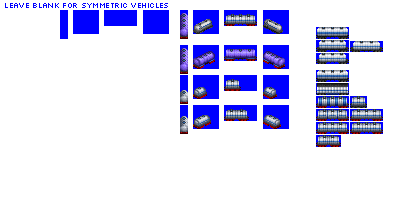
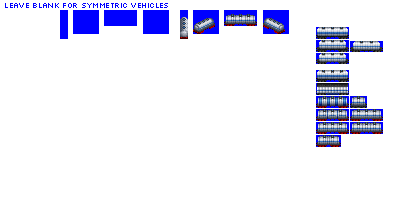
Change: sprites complete for gen 4B and 4C edibles tank cars

Changed region(s): [[0.45, 0.21, 0.72, 0.69], [0.45, 0.06, 0.54, 0.18], [0.66, 0.09, 0.72, 0.18]]

diff --git a/src/vehicles/edibles_tank_cars.py b/src/vehicles/edibles_tank_cars.py
@@ -39,7 +39,8 @@ def main():
     consist = EdiblesTankCarConsist(roster='pony',
                                     base_numeric_id=1690,
                                     gen=4,
-                                    subtype='B')
+                                    subtype='B',
+                                    sprites_complete=True)
 
     consist.add_unit(type=FreightCar,
                      vehicle_length=6,
@@ -48,7 +49,8 @@ def main():
     consist = EdiblesTankCarConsist(roster='pony',
                                     base_numeric_id=1220,
                                     gen=4,
-                                    subtype='C')
+                                    subtype='C',
+                                    sprites_complete=True)
 
     consist.add_unit(type=FreightCar,
                      vehicle_length=8,
